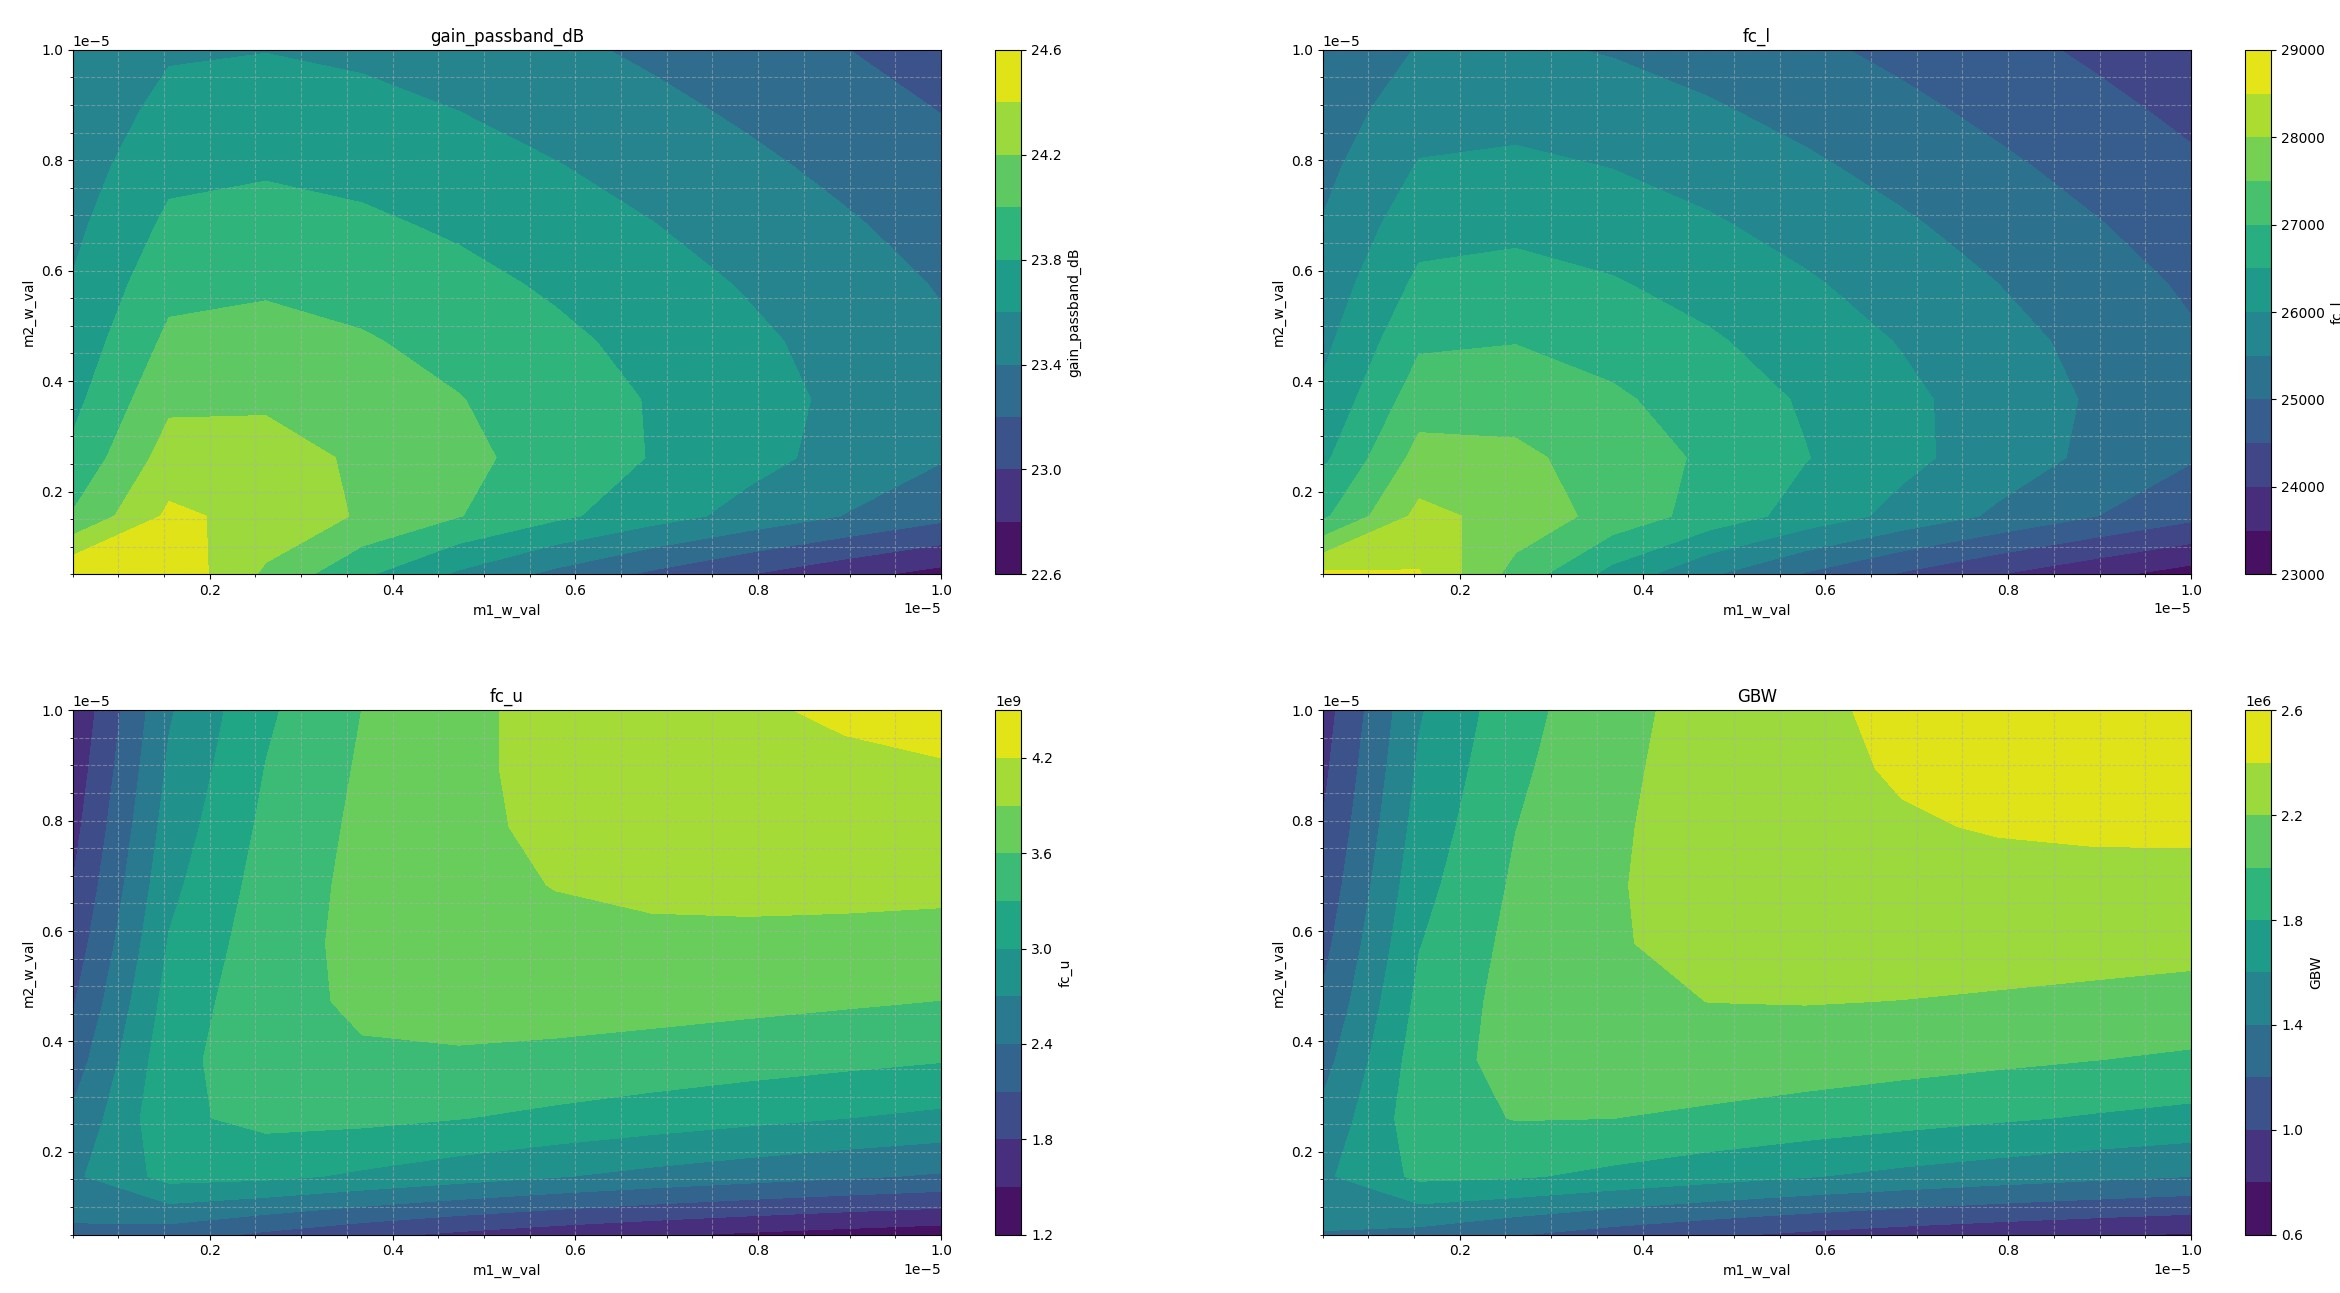
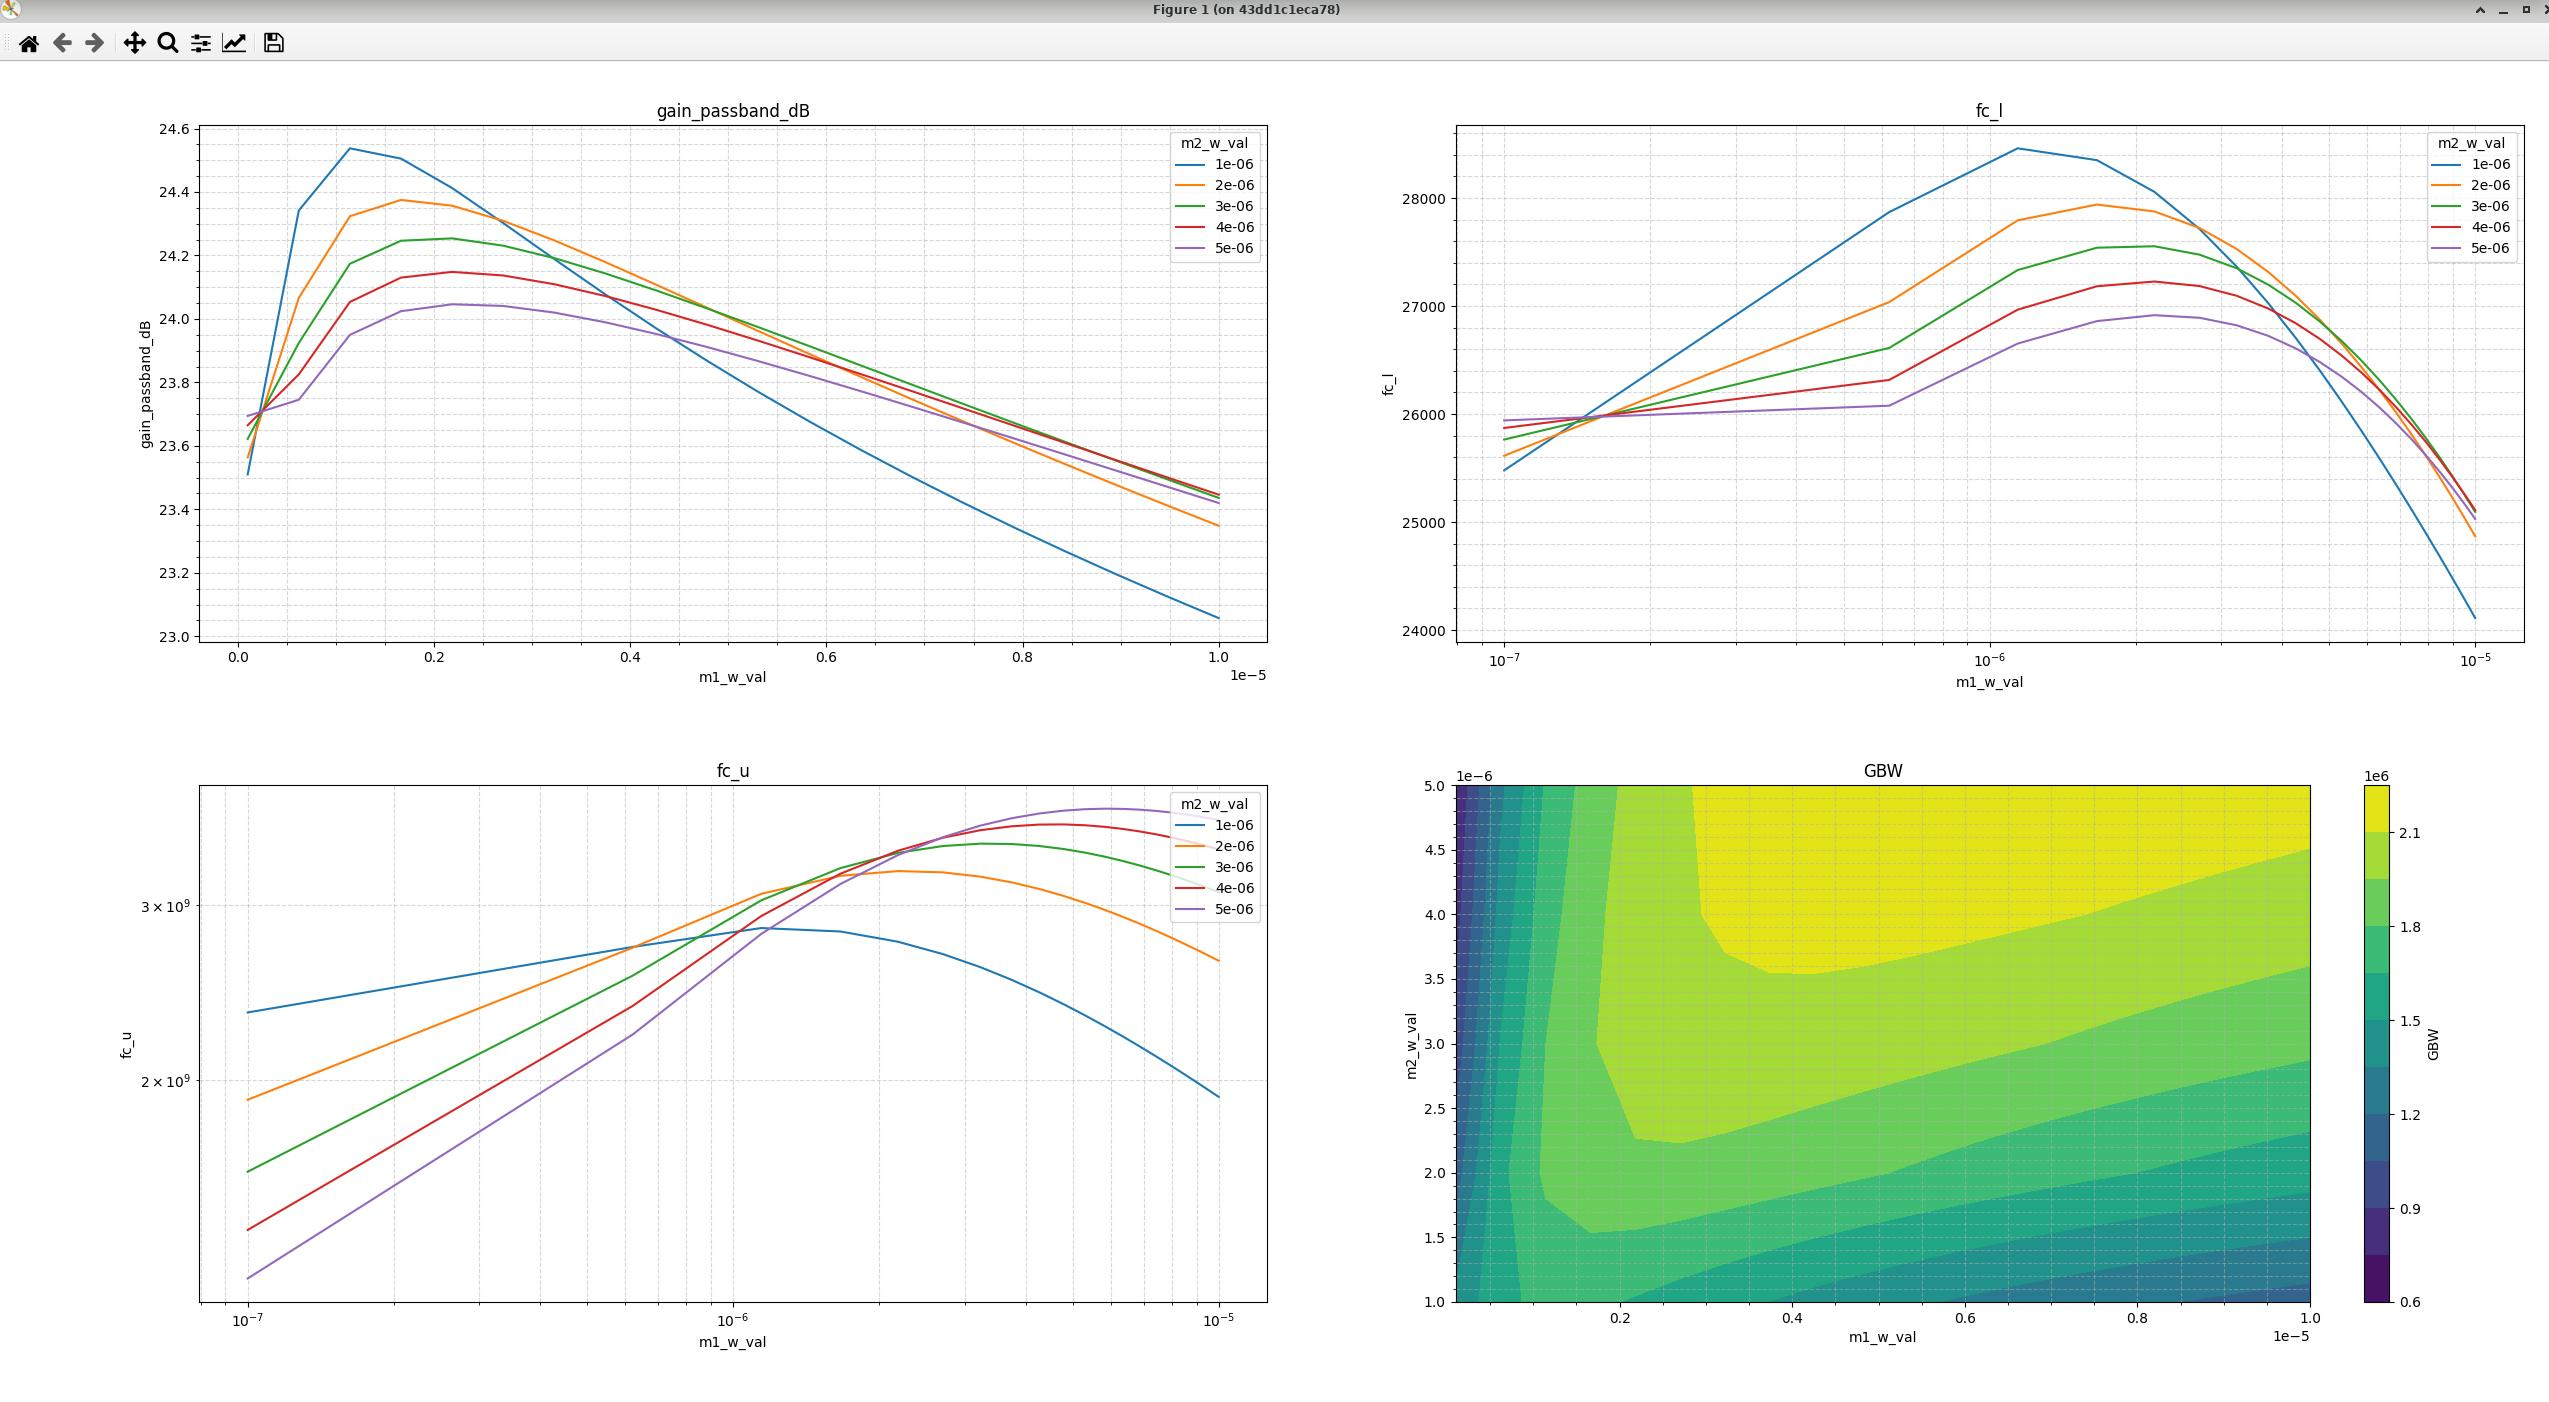
switch normal plot / contourplot added; switch logx/y/xy added

diff --git a/ngspice_parallel_sweep.py b/ngspice_parallel_sweep.py
@@ -61,6 +61,33 @@ else:
     print("Info: **sort_results_index statement not found, setting it to index 0.")
     sort_results_index = 0
 
+#get results_plot_contour_index from netlist
+match = re.search(r"^\s*(\*\*results_plot_contour_index)\s*=\s*(.+)$", netlist, re.MULTILINE)
+if match:
+    results_plot_contour_index_str = match.group(2).strip()
+    results_plot_contour_index = [int(i.strip()) for i in results_plot_contour_index_str.split(',') if i.strip().isdigit()]
+else:
+    print("Info: **results_plot_contour_index statement not found, setting it to be empty.")
+    results_plot_contour_index = []
+
+#get results_plot_logx_index from netlist
+match = re.search(r"^\s*(\*\*results_plot_logx_index)\s*=\s*(.+)$", netlist, re.MULTILINE)
+if match:
+    results_plot_logx_index_str = match.group(2).strip()
+    results_plot_logx_index = [int(i.strip()) for i in results_plot_logx_index_str.split(',') if i.strip().isdigit()]
+else:
+    print("Info: **results_plot_logx_index statement not found, setting it to be empty.")
+    results_plot_logx_index = []
+
+#get results_plot_logy_index from netlist
+match = re.search(r"^\s*(\*\*results_plot_logy_index)\s*=\s*(.+)$", netlist, re.MULTILINE)
+if match:
+    results_plot_logy_index_str = match.group(2).strip()
+    results_plot_logy_index = [int(i.strip()) for i in results_plot_logy_index_str.split(',') if i.strip().isdigit()]
+else:
+    print("Info: **results_plot_logy_index statement not found, setting it to be empty.")
+    results_plot_logy_index = []
+
 #get sweep parameters from netlist
 pattern = re.compile(
     rf"{re.escape(parameter_begin_tag)}(.*?){re.escape(parameter_end_tag)}",
@@ -218,16 +245,16 @@ if __name__ == "__main__":
                 for header in reader.fieldnames:
                     results_dict[header].append(float(row[header]))
 
-        if len(param_name_list) == 1:
-            # Set the number of columns for subplot grid
-            n_cols = 2  # Change this to 1, 2, 3, etc.
-            n_plots = len(results_plot_list)
-            n_rows = math.ceil(n_plots / n_cols)
+        # Set the number of columns for subplot grid
+        n_cols = 2  # Change this to 1, 2, 3, etc.
+        n_plots = len(results_plot_list)
+        n_rows = math.ceil(n_plots / n_cols)
 
-            # Create subplots
-            fig, axs = plt.subplots(n_rows, n_cols, figsize=(6 * n_cols, 4 * n_rows))
-            axs = axs.flatten()  # Flatten in case of multiple rows/columns
-            i = 0
+        # Create subplots
+        fig, axs = plt.subplots(n_rows, n_cols, figsize=(6 * n_cols, 4 * n_rows))
+        axs = axs.flatten()  # Flatten in case of multiple rows/columns
+        i = 0
+        if len(param_name_list) == 1:
             for var in results_plot_list:
                 axs[i].set_title(var)
                 axs[i].grid(True, which='both', linestyle='--', linewidth=0.5)
@@ -235,7 +262,14 @@ if __name__ == "__main__":
                 axs[i].set_xlabel(f"{param_name_list[0]}")
                 axs[i].set_ylabel(f"{var}")
                 var = var.lower()
-                axs[i].plot(results_dict[param_name_list[0]], results_dict[var])
+                if i in results_plot_logx_index and i in results_plot_logy_index:
+                    axs[i].loglog(results_dict[param_name_list[0]], results_dict[var])
+                elif i in results_plot_logx_index:
+                    axs[i].semilogx(results_dict[param_name_list[0]], results_dict[var])
+                elif i in results_plot_logy_index:
+                    axs[i].semilogy(results_dict[param_name_list[0]], results_dict[var])
+                else:
+                    axs[i].plot(results_dict[param_name_list[0]], results_dict[var])
                 i = i + 1
             # Hide unused subplots
             for j in range(i, len(axs)):
@@ -243,28 +277,36 @@ if __name__ == "__main__":
             plt.tight_layout()
             plt.show()
         elif len(param_name_list) == 2:
-            # Set the number of columns for subplot grid
-            n_cols = 2  # Change this to 1, 2, 3, etc.
-            n_plots = len(results_plot_list)
-            n_rows = math.ceil(n_plots / n_cols)
-
-            # Create subplots
-            fig, axs = plt.subplots(n_rows, n_cols, figsize=(6 * n_cols, 4 * n_rows))
-            axs = axs.flatten()  # Flatten in case of multiple rows/columns
-            i = 0
             for var in results_plot_list:
                 axs[i].set_title(var)
-                axs[i].set_xlabel(f"{param_name_list[0]}")
-                axs[i].set_ylabel(f"{param_name_list[1]}")
+                axs[i].set_xlabel(f"{param_name_list[0]}")              
                 axs[i].grid(True, which='both', linestyle='--', alpha=0.5)
                 axs[i].minorticks_on()
                 x = np.unique(np.array(results_dict[param_name_list[0]]))
                 y = np.unique(np.array(results_dict[param_name_list[1]]))
-                X, Y = np.meshgrid(x,y)
-                Z = np.array(results_dict[var.lower()]).reshape(len(x), len(y)).T
-                contour = axs[i].contourf(X, Y, Z, levels=10, cmap='viridis')
-                cbar = fig.colorbar(contour, ax=axs[i])
-                cbar.set_label(var)
+                Z = np.array(results_dict[var.lower()]).reshape(len(x), len(y)).T # shape: (len(y), len(x))
+                if i in results_plot_contour_index:
+                    axs[i].set_ylabel(f"{param_name_list[1]}")
+                    X, Y = np.meshgrid(x,y)
+                    contour = axs[i].contourf(X, Y, Z, levels=10, cmap='viridis')
+                    cbar = fig.colorbar(contour, ax=axs[i])
+                    cbar.set_label(var)
+                else:
+                    axs[i].set_ylabel(var)
+                    Z = Z.T
+                    if i in results_plot_logx_index and i in results_plot_logy_index:
+                        for l, yl in enumerate(y):
+                            axs[i].loglog(x, Z[:, l], label=f"{yl:.2g}")
+                    elif i in results_plot_logx_index:
+                        for l, yl in enumerate(y):
+                            axs[i].semilogx(x, Z[:, l], label=f"{yl:.2g}")
+                    elif i in results_plot_logy_index:
+                        for l, yl in enumerate(y):
+                            axs[i].semilogy(x, Z[:, l], label=f"{yl:.2g}")
+                    else:
+                        for l, yl in enumerate(y):
+                            axs[i].plot(x, Z[:, l], label=f"{yl:.2g}")
+                    axs[i].legend(title=param_name_list[1], loc='upper right')
                 i = i + 1
             # Hide unused subplots
             for j in range(i, len(axs)):
